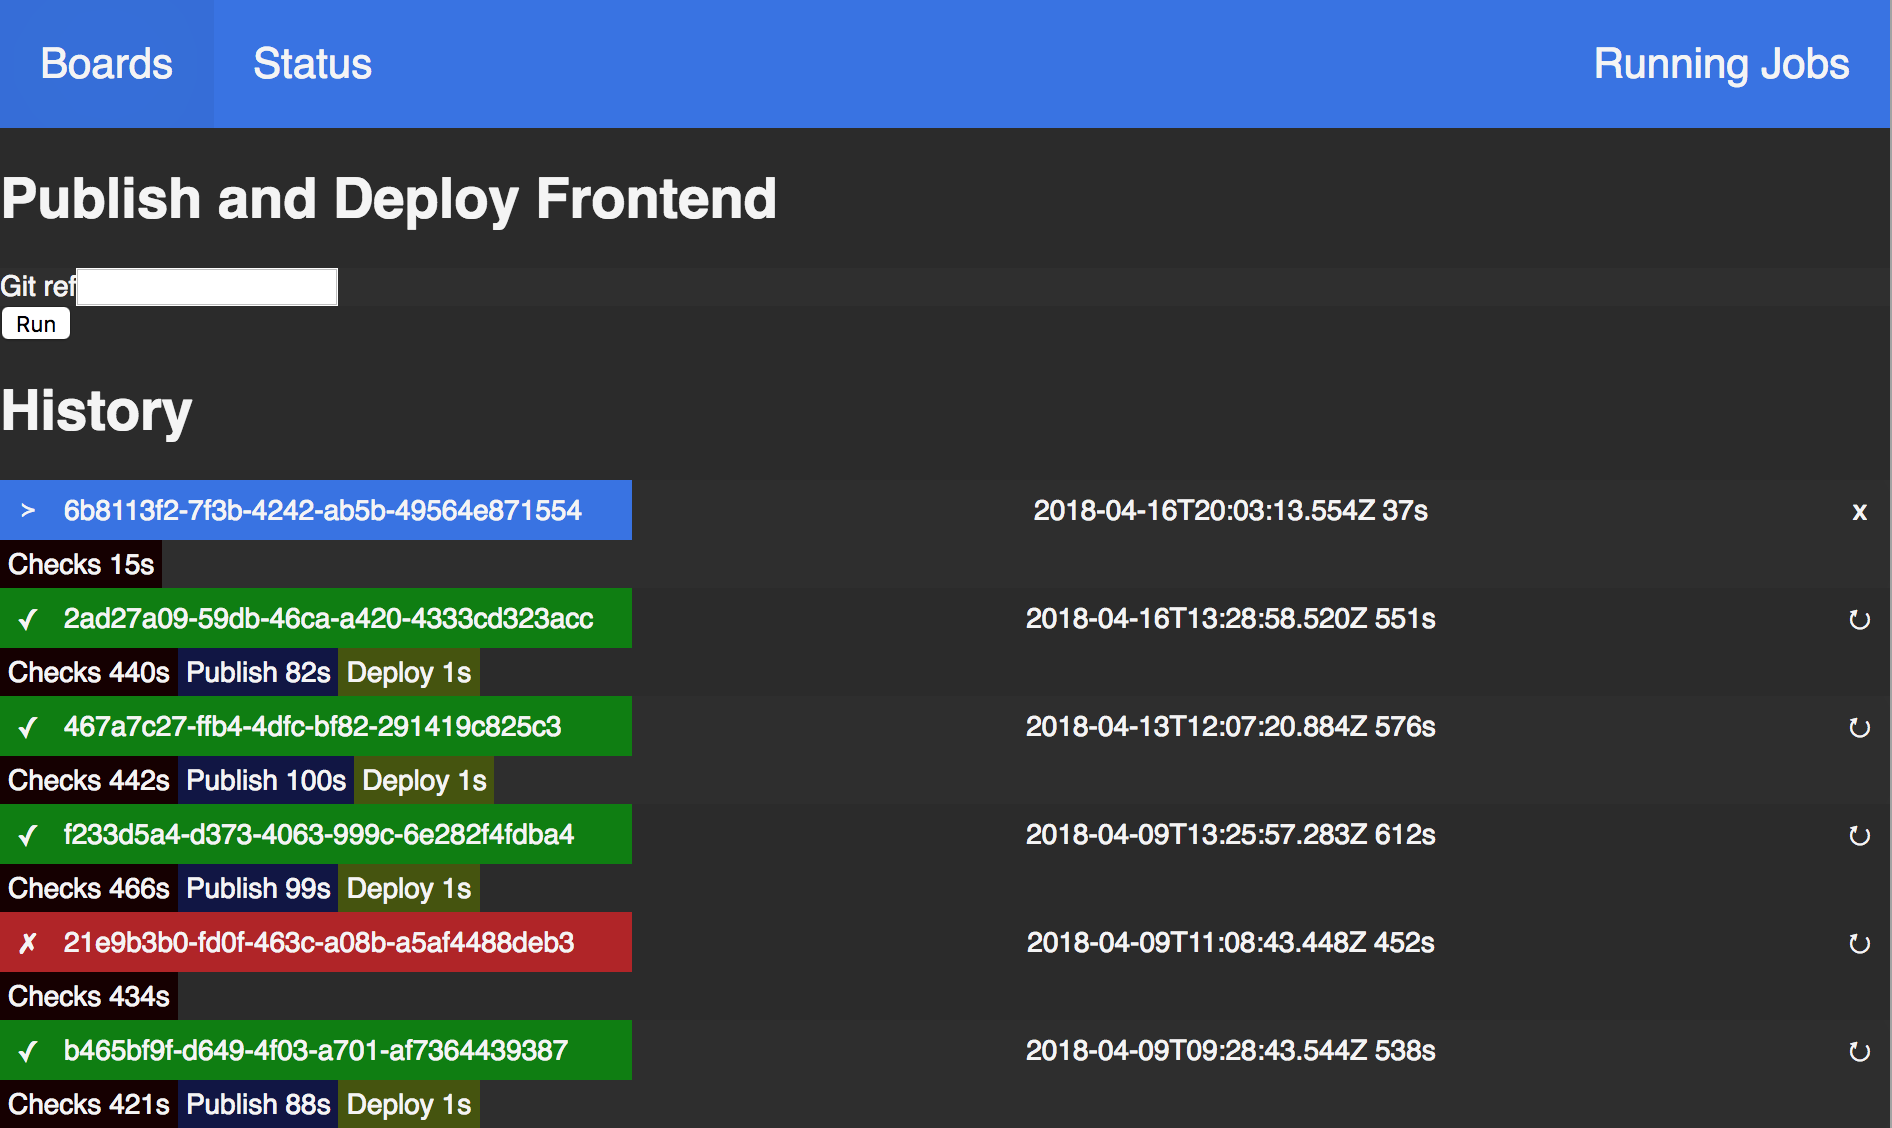
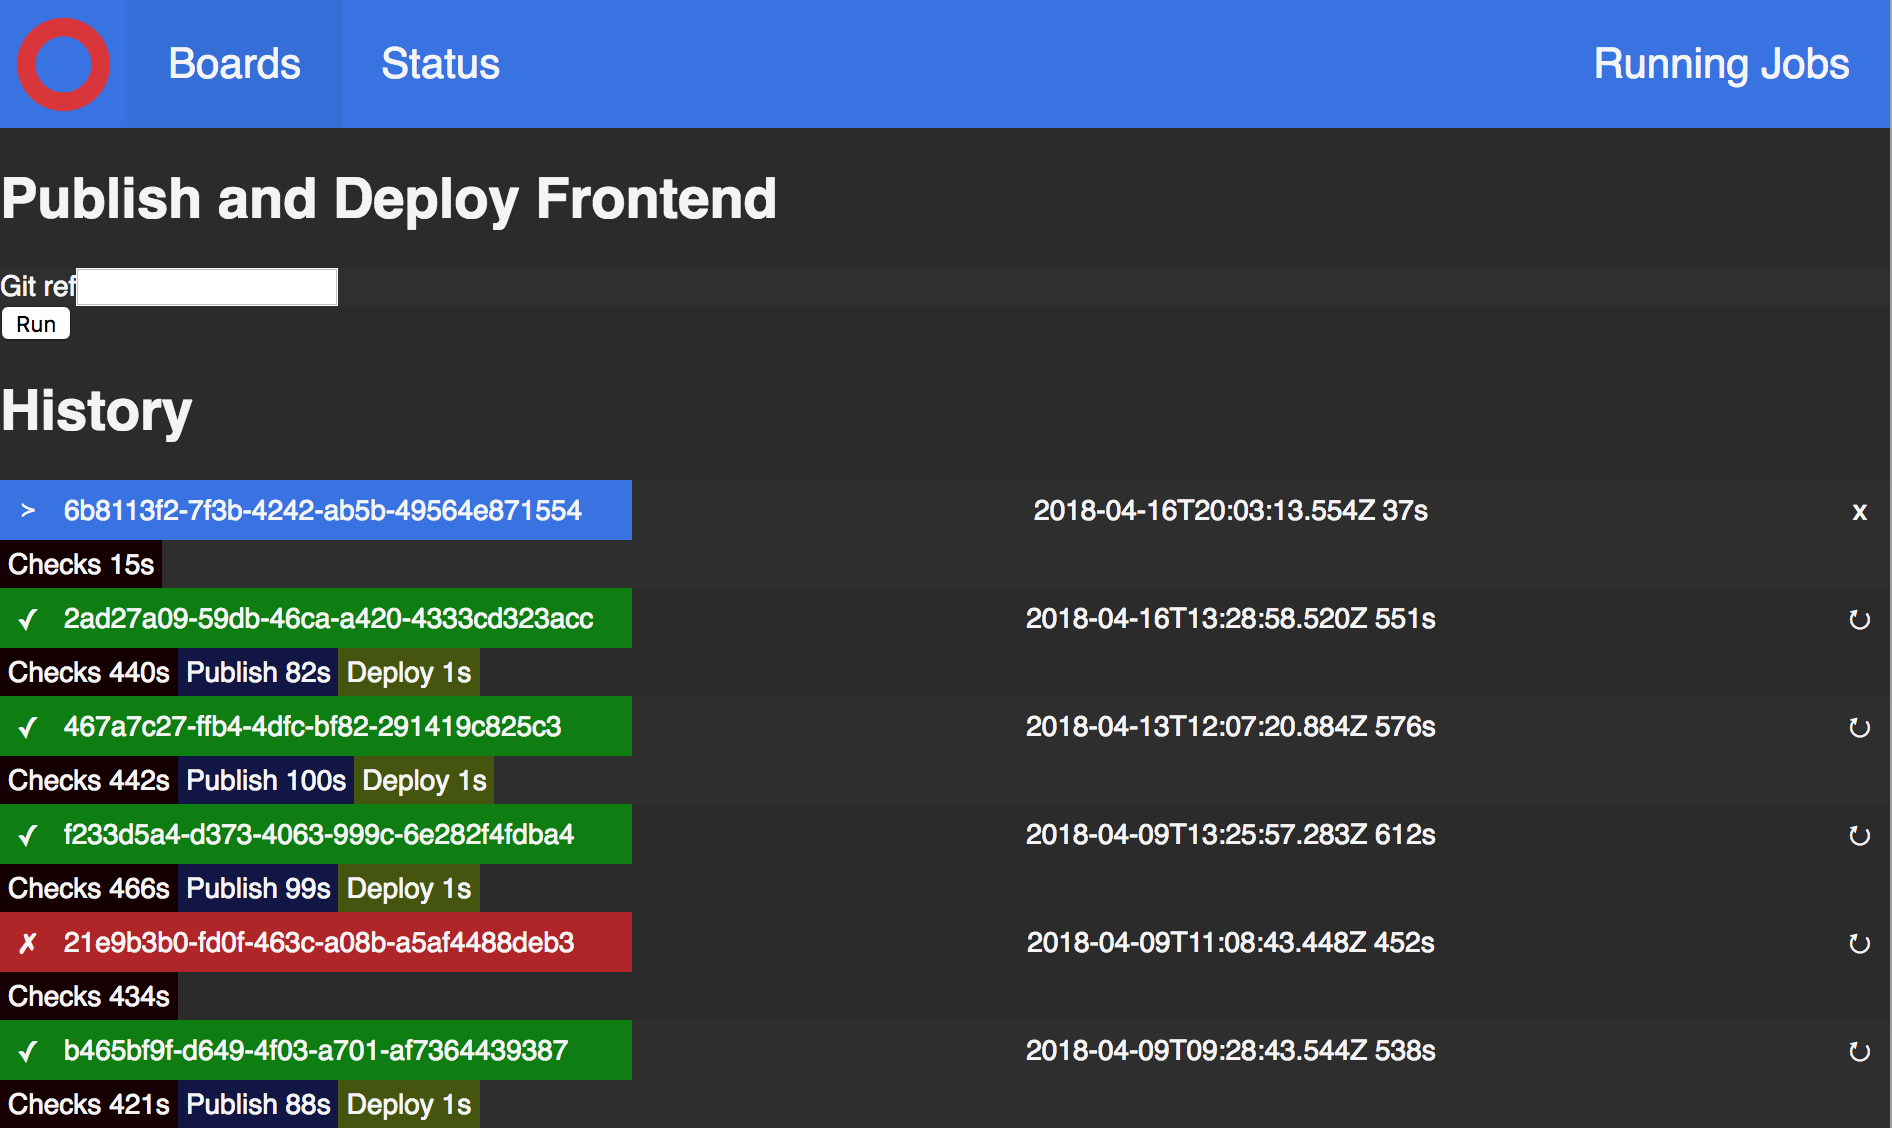
Improve Header and Footer

Changed region(s): [[0.0, 0.0, 0.2807, 0.0931]]

diff --git a/docs/src/main/tut/directories.md b/docs/src/main/tut/directories.md
@@ -18,7 +18,7 @@ import com.drivetribe.orchestra._
 import com.drivetribe.orchestra.Dsl._
 import com.drivetribe.orchestra.board._
 // We import the directories DSL
-import com.drivetribe.orchestra.filesystem.Directories._
+import com.drivetribe.orchestra.utils.Directories._
 import com.drivetribe.orchestra.job.JobRunner
 import com.drivetribe.orchestra.model._
 import com.drivetribe.orchestra.utils.Shells._
